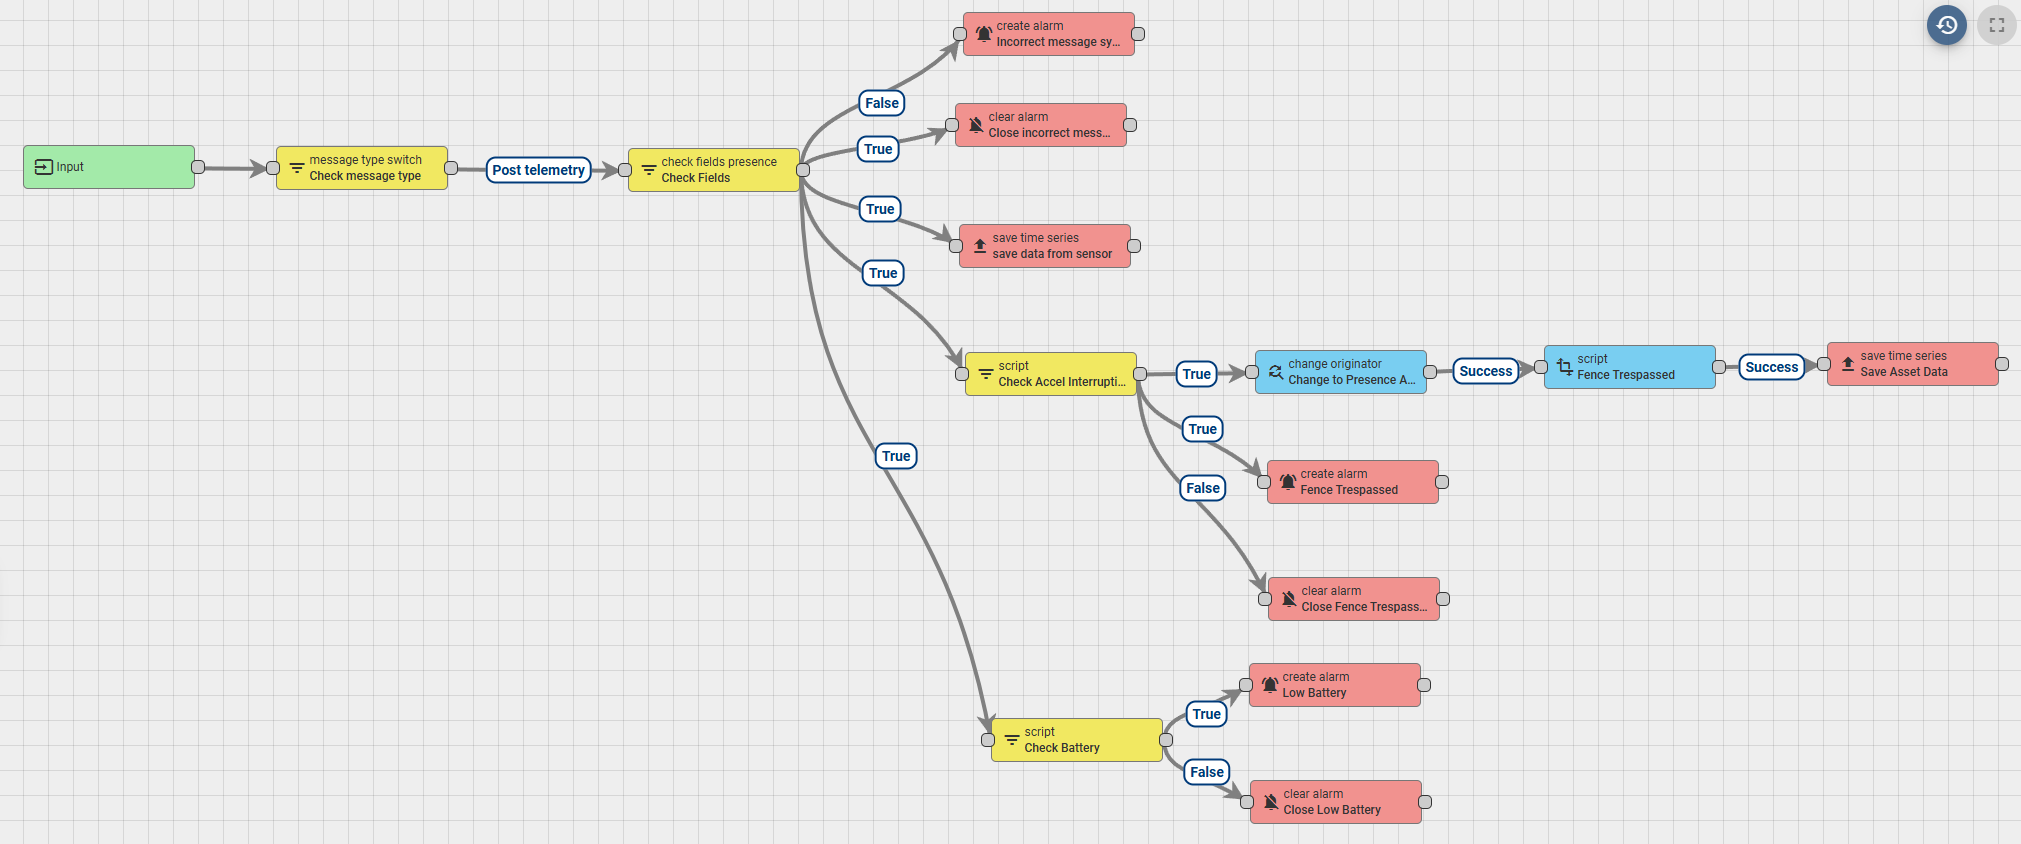
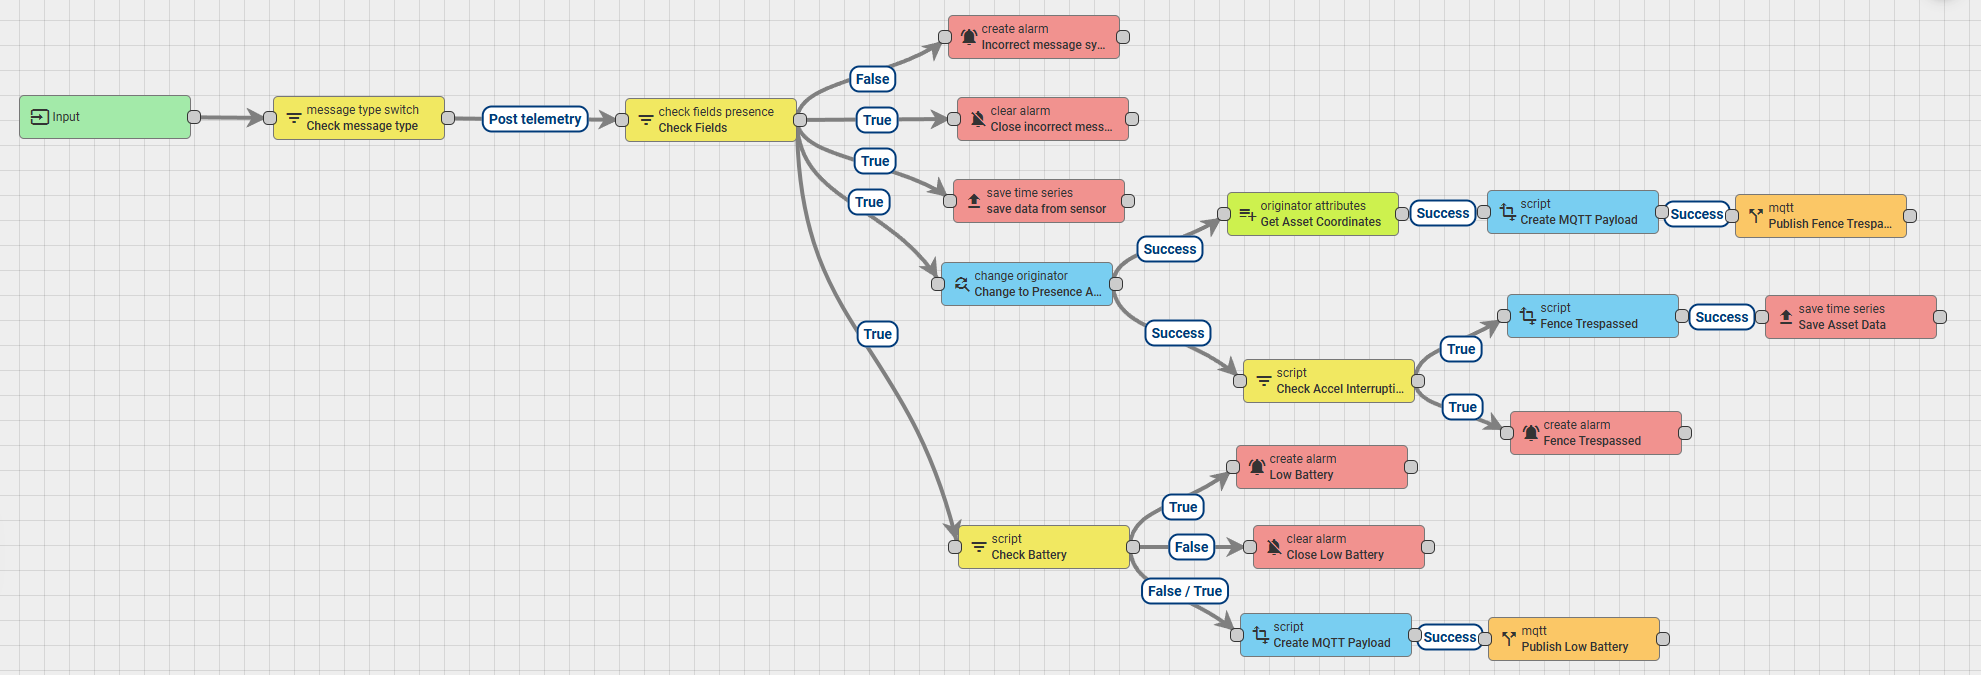
Se actualiza thingsboard

diff --git a/includes/implementation.tex b/includes/implementation.tex
@@ -75,7 +75,7 @@ distinguish between the two types of nodes, each with its own device profile, an
     a single side, multiple detections, or a possible unauthorized crossing.
 \end{itemize}
 
-For this project, and considering the specified constraints, we deployed a total of 8 devices to cover the perimeter of the crop field—4 devices for each defined Device 
+For this project, and considering the specified constraints, we deployed a total of 8 devices to cover the perimeter of the crop field, 4 devices for each defined Device 
 Profile. Additionally, we defined 4 assets using the Presence Asset Profile type, representing the presence detected by each fence segment. \autoref{fig:NodesSchematic} provides a schematic 
 representation of the nodes and assets placement.
 \begin{figure}[H]
@@ -107,6 +107,7 @@ Each device profile is assigned a specific Rule Chain to analyze the data receiv
 \subsubsection*{PIR Node Analyzer}
 The alarms generated by this Rule Chain include:
 \begin{itemize}
+    \item Low Battery.
     \item Fire Detected.
     \item Fire Hazard.
     \item Presence Detected.
@@ -122,6 +123,8 @@ structure similar to the one shown in \autoref{fig:parsedJson}.
     \caption{Parsed JSON for Rule Chain Processing}
     \label{fig:parsedJson}
 \end{figure}
+
+The low battery alarm is triggered when the node reports a battery level below $15\%$.
 
 Fire detection relies on the value in the \texttt{fire} field. In the Check Fire node of the Rule Chain, if the \texttt{fire} field returns \texttt{true}, a critical alarm for "Fire Detected"
 is triggered. If the value is \texttt{false}, the alarm is deactivated.
@@ -153,7 +156,54 @@ The pseudocode for this logic is as follows:
 
 To implement this algorithm, relationships between the various nodes and assets were defined. Accessing values from neighboring nodes was achieved through the Change
 Originator node in Thingsboard, which specifies the target node using the predefined relationships. Similarly, the originator change process is used to update related 
-asset values. The full flow of the Rule Chain is illustrated in \autoref{fig:PirNodeAnalyzer}.
+asset values. The relations establish are detailed in the tables below.
+
+\begin{table}[H]
+    \begin{center}
+        \begin{tabular}{p{0.30\textwidth} |  p{0.30\textwidth} | p{0.30\textwidth} }
+            \hline
+            \multicolumn{1}{c |}{\textbf{PIR Node}} & \multicolumn{1}{c |}{\textbf{Left Neighbor}} & \multicolumn{1}{c}{\textbf{Right Neighbor}}\\
+            \hline
+            \makecell{PIR Node 01} & \makecell{PIR Node 04} & \makecell{PIR Node 02}\\
+            \hline
+            \makecell{PIR Node 02} & \makecell{PIR Node 01} & \makecell{PIR Node 03}\\
+            \hline
+            \makecell{PIR Node 03} & \makecell{PIR Node 02} & \makecell{PIR Node 04}\\
+            \hline
+            \makecell{PIR Node 04} & \makecell{PIR Node 04} & \makecell{PIR Node 01}\\
+            \hline
+        \end{tabular} 
+    \end{center}
+    \caption{PIR Nodes relationships}
+    \label{pirNodesRelations}
+\end{table}
+
+\begin{table}[H]
+    \begin{center}
+        \begin{tabular}{p{0.30\textwidth} |  p{0.30\textwidth} | p{0.30\textwidth} }
+            \hline
+            \multicolumn{1}{c |}{\textbf{Asset}} & \multicolumn{1}{c |}{\textbf{Left PIR Node}} & \multicolumn{1}{c}{\textbf{Right PIR Node}}\\
+            \hline
+            \makecell{Presence Side A} & \makecell{PIR Node 01} & \makecell{PIR Node 02}\\
+            \hline
+            \makecell{Presence Side B} & \makecell{PIR Node 02} & \makecell{PIR Node 03}\\
+            \hline
+            \makecell{Presence Side C} & \makecell{PIR Node 03} & \makecell{PIR Node 04}\\
+            \hline
+            \makecell{Presence Side D} & \makecell{PIR Node 04} & \makecell{PIR Node 01}\\
+            \hline
+        \end{tabular} 
+    \end{center}
+    \caption{Assets relationships}
+    \label{AssetsRelations}
+\end{table}
+
+After a PIR Node detects presence and the previously detailed logic is applied, if presence is detected on at least one of its sides, the system will not only generate the 
+corresponding alarm, whether for presence detection on a single side of the fence or on both, but will also trigger the speaker activation command via the \texttt{rpc call request}
+rule chain node. This command set the speaker to emit sounds to deter the detected presence. The speaker will remain active until neither of the two PIR sensors in the node 
+detect any presence. Once no presence is detected on either side, a new command will be sent to deactivate the speaker.
+
+The full flow of the Rule Chain is illustrated in \autoref{fig:PirNodeAnalyzer}.
 
 \begin{figure}[H]
     \centering
@@ -173,6 +223,36 @@ Chain specifically generates the "Fence Trespassed" alarm based on the value of 
     \caption{Fence Node Analyzer Rule Chain FLow}
     \label{fig:FenceNodeAnalyzer}
 \end{figure}
+
+\subsubsection*{Alarms}
+
+To streamline the process of sending notifications about alarm activation or deactivation, both Rule Chain utilizes MQTT nodes to publish this information to 
+an external broker accessible to the user. For this purpose, specific topics have been defined to publish the necessary information (detailed in the appendix) \todo[inline]{METER JSONs de cada topic en el apendice} 
+for triggering specific alarms in the mobile application, which is explained in more detail in its corresponding section. Te topics defined are:
+
+\begin{table}[H]
+    \begin{center}
+        \begin{tabular}{p{0.20\textwidth} |  p{0.70\textwidth}}
+            \hline
+            \multicolumn{1}{c |}{\textbf{Alarm}} & \multicolumn{1}{c |}{\textbf{MQTT Topic}}\\
+            \hline
+            \makecell{Low Battery} & \makecell{UPM/MIoT/ARS/RiskSystem/alarms/LowBattery}\\
+            \hline
+            \makecell{Fire Hazard} & \makecell{UPM/MIoT/ARS/RiskSystem/alarms/FireHazard}\\
+            \hline
+            \makecell{Fire Detected} & \makecell{UPM/MIoT/ARS/RiskSystem/alarms/FireDetected}\\
+            \hline
+            \makecell{Presence Detected} & \makecell{UPM/MIoT/ARS/RiskSystem/alarms/PresenceDetected}\\ 
+            \hline
+            \makecell{Node Presence\\Detected} & \makecell{UPM/MIoT/ARS/RiskSystem/alarms/NodePresenceDetected}\\
+            \hline
+            \makecell{Fence Trespassed} & \makecell{UPM/MIoT/ARS/RiskSystem/alarms/FenceTrespassed}\\
+            \hline
+        \end{tabular} 
+    \end{center}
+    \caption{MQTT Topics defined for mobile application notification}
+    \label{MQTTTopics}
+\end{table}
 
 \subsubsection*{Dashboard}
 
